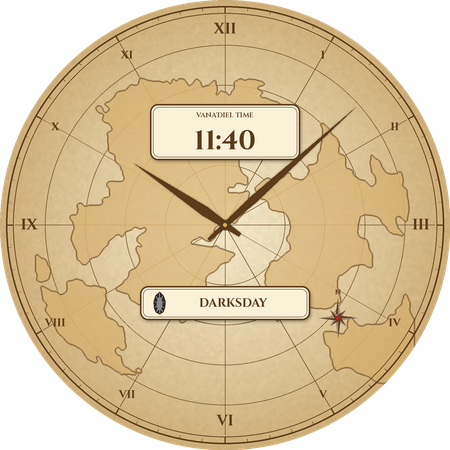
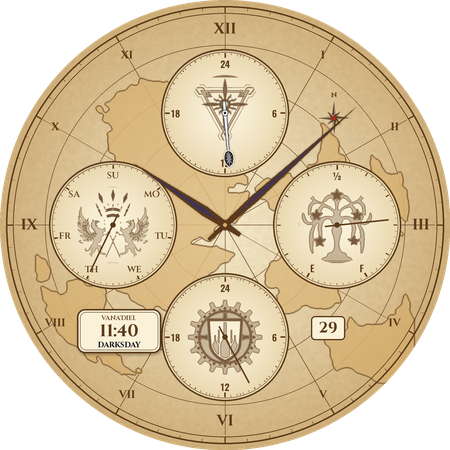
Watch face: four sub-dials on the parchment Vana'diel Time face
The parchment face gets the same four dials as the chronograph styles
in a tan, inked look: cream sub-dials with sepia crests and ink rings
and needles, Jeuno's Vana'diel 24h dial with the crystal-tipped weekday
hand, the Vana'diel time and weekday in a 7:30 cartouche, a 4:30 date,
and ink hands inlaid with the weekday colour. Shared WFF expressions
move to tools/wff_expr.py (with a reference implementation).

Claude-Session: https://claude.ai/code/session_01DhcV9kAg7FMXufVfZQP7Ta

Changed region(s): [[0.0933, 0.0933, 0.9022, 0.9022], [0.7156, 0.1867, 0.7778, 0.3111]]

diff --git a/ffxi-watchface/tools/generate_assets.py b/ffxi-watchface/tools/generate_assets.py
@@ -709,8 +709,7 @@ def colorize(img, tones):
     return Image.fromarray(np.dstack([rgb, a[..., 3]]).astype(np.uint8), 'RGBA')
 
 
-VANA_TIME_BOX = (150, 104, 300, 160)     # cartouche for the Vana'diel time
-VANA_DAY_BOX = (140, 286, 310, 320)      # plaque for the weekday
+VANA_BOX = (77, 309, 161, 353)     # 7:30 cartouche: Vana'diel time and weekday
 
 
 def parchment(size):
@@ -750,6 +749,35 @@ def cartouche(img, box, fill, line):
     d.rounded_rectangle([x0 + s(3), y0 + s(3), x1 - s(3), y1 - s(3)], radius=s(6), outline=line + (255,), width=round(s(0.6)))
 
 
+def parchment_subdial(img, key, centre, scale, ambient=False):
+    """Sub-dial for the parchment face: inked rings, crest in sepia, ink labels."""
+    cx, cy = (s(v) for v in centre)
+    R = s(SUB_R)
+    d = ImageDraw.Draw(img)
+    ink = (130, 118, 96) if ambient else INK
+    if ambient:
+        d.ellipse([cx - R, cy - R, cx + R, cy + R], fill=(0, 0, 0, 255), outline=ink, width=round(s(1.0)))
+        r = s(EMBLEM_R)
+        em = crest_art(key, (2 * r, 2 * r), 0.55)
+        img.paste(em, (int(cx - r), int(cy - r)), circle_mask((2 * r, 2 * r), r, r, r))
+    else:
+        g = radial_gradient((2 * R, 2 * R), (252, 244, 222), (232, 214, 172))
+        img.paste(g, (int(cx - R), int(cy - R)), circle_mask((2 * R, 2 * R), R, R, R))
+        inner_shadow(img, circle_mask(img.size, cx, cy, R), depth=1.4, blur=1.4, alpha=0.3)
+        r = s(EMBLEM_R)
+        v = np.asarray(crest_art(key, (2 * r, 2 * r)).convert('L')).astype(float)
+        em = Image.new('RGBA', (2 * r, 2 * r), INK + (0,))
+        em.putalpha(Image.fromarray(np.minimum(np.clip(v * 0.9, 0, 255), np.asarray(circle_mask(em.size, r, r, r))).astype(np.uint8)))
+        img.alpha_composite(em, (int(cx - r), int(cy - r)))
+        d = ImageDraw.Draw(img)
+        for rr, w in ((R, 1.5), (R - s(3), 0.5)):
+            d.ellipse([cx - rr, cy - rr, cx + rr, cy + rr], outline=INK + (255,), width=round(s(w)))
+    for i in range(60):
+        a = i * 6
+        d.line([polar(R - s(4), a, cx, cy), polar(R - s(5.6), a, cx, cy)], fill=ink + (255,), width=round(s(0.5)))
+    draw_scale(d, scale, cx, cy, R - s(1), ink)
+
+
 def make_vana_dial(ambient=False):
     size = (s(N), s(N))
     if ambient:
@@ -764,7 +792,7 @@ def make_vana_dial(ambient=False):
         for a in range(0, 180, 30):
             d.line([polar(s(210), a), polar(s(210), a + 180)], fill=INK + (28,), width=round(s(0.6)))
         draw_world(img, (214, 172, 104, 150), INK + (210,), width=0.9, diameter=380)
-        compass_rose(img, s(338), s(318), s(20), INK)
+        compass_rose(img, s(334), s(118), s(17), INK)
         ink = INK
     d = ImageDraw.Draw(img)
     # inked chapter ring with Earth hours
@@ -776,11 +804,18 @@ def make_vana_dial(ambient=False):
     numerals = ['XII', 'I', 'II', 'III', 'IV', 'V', 'VI', 'VII', 'VIII', 'IX', 'X', 'XI']
     for h, num in enumerate(numerals):
         text_c(d, polar(s(196), h * 30), num, font(FONT_SERIF, 15 if h % 3 == 0 else 11), ink)
-    if not ambient:
-        cartouche(img, VANA_TIME_BOX, (250, 241, 216), INK)
-        cartouche(img, VANA_DAY_BOX, (250, 241, 216), INK)
+    for pos in POSITIONS:
+        parchment_subdial(img, LAYOUT[pos], POSITIONS[pos], POSITION_SCALE[pos], ambient)
+    parchment_subdial(img, 'jeuno', VANA_POS, '24h', ambient)
+    if not ambient:   # date window and the Vana'diel cartouche (text drawn live)
+        x, y = s(DATE_POS[0]), s(DATE_POS[1])
+        w, h = s(DATE_SIZE[0]), s(DATE_SIZE[1])
         d = ImageDraw.Draw(img)
-        text_c(d, (s(225), s(VANA_TIME_BOX[1] + 11)), "VANA'DIEL TIME", font(FONT_LABEL, 7), INK)
+        d.rounded_rectangle([x - w / 2, y - h / 2, x + w / 2, y + h / 2], radius=s(4), fill=(250, 241, 216, 255),
+                            outline=INK + (255,), width=round(s(1.2)))
+        cartouche(img, VANA_BOX, (250, 241, 216), INK)
+        d = ImageDraw.Draw(img)
+        text_c(d, (s((VANA_BOX[0] + VANA_BOX[2]) / 2), s(VANA_BOX[1] + 9)), "VANA'DIEL", font(FONT_LABEL, 6.5), INK)
     img.putalpha(circle_mask(size, C, C, s(225)))
     return img
 
@@ -806,13 +841,18 @@ def element_crystal(color, h=22):
     return img
 
 
-def ink_hand(tip, tail, w, color=INK, pad=3):
-    """Slim solid ink hand for the parchment face."""
+def ink_hand(tip, tail, w, color=INK, pad=3, inlay=None):
+    """Slim solid ink hand for the parchment face; `inlay` adds a coloured centre stripe."""
     img, px, py = hand_canvas(w, tip, tail, pad)
     half = s(w) / 2
     pts = [(px, py - s(tip)), (px + half, py - s(tip) * 0.22), (px + half * 0.4, py + s(tail)),
            (px - half * 0.4, py + s(tail)), (px - half, py - s(tip) * 0.22)]
-    ImageDraw.Draw(img).polygon(pts, fill=color + (255,))
+    d = ImageDraw.Draw(img)
+    d.polygon(pts, fill=color + (255,))
+    if inlay:
+        lw = half * 0.42
+        d.polygon([(px, py - s(tip) * 0.86), (px + lw, py - s(tip) * 0.24), (px, py - s(tip) * 0.08),
+                   (px - lw, py - s(tip) * 0.24)], fill=inlay + (255,))
     return with_shadow(img, blur=1.0, alpha=0.35)
 
 
@@ -1005,8 +1045,7 @@ HANDS = {
     'hand_sub_blue': (lambda: with_shadow(needle_hand(52, 12, 1.5, 2.6, color=NATION_INK['bastok'] + (255,),
                                                       ring_fill=NATION_INK['bastok'] + (255,)), 0.8, 0.4), 8, 52, 12, 2),
     # Vana'diel Time style: ink hands
-    'hand_hour_vana': (lambda: ink_hand(110, 18, 10), 10, 110, 18, 3),
-    'hand_minute_vana': (lambda: ink_hand(176, 22, 8), 8, 176, 22, 3),
+    'hand_sub_ink': (lambda: needle_hand(52, 12, 1.4, 2.6, color=INK + (255,), ring_fill=INK + (255,)), 8, 52, 12, 2),
 }
 VANA_HAND = (12, 54, 12, 2)   # visual width, tip, tail, pad
 
@@ -1040,6 +1079,8 @@ for _k, (_name, _color) in enumerate(ELEMENTS):
     HANDS[f'hand_hour_light_{_k}'] = _photo('hour', 118, thin=0.48, alpha=0.6, outline=True, edge=_tones[0], glow=_tones[1])
     HANDS[f'hand_minute_light_{_k}'] = _photo('minute', 182, thin=0.5, alpha=0.6, outline=True, edge=_tones[0], glow=_tones[1])
     HANDS[f'hand_hour_dark_{_k}'] = (lambda c=_line: outline_hand(112, 16, 10, color=c), 10, 112, 16, 2)
+    HANDS[f'hand_hour_vana_{_k}'] = (lambda c=_tones[1]: ink_hand(110, 18, 10, inlay=c), 10, 110, 18, 3)
+    HANDS[f'hand_minute_vana_{_k}'] = (lambda c=_tones[1]: ink_hand(176, 22, 8, inlay=c), 8, 176, 22, 3)
     HANDS[f'hand_minute_dark_{_k}'] = (lambda c=_line: outline_hand(180, 20, 8, color=c), 8, 180, 20, 2)
 LIGHT_NEEDLE = {'sandoria': 'hand_sub_red', 'windurst': 'hand_sub_green', 'bastok': 'hand_sub_blue'}
 
@@ -1072,7 +1113,7 @@ def patch_xml(overlays=None):
 
     setattrs(r'<HourHand resource="hand_hour_dark" [^>]*>', 225, 225, 'hand_hour_dark')
     setattrs(r'<MinuteHand resource="hand_minute_dark" [^>]*>', 225, 225, 'hand_minute_dark')
-    for style in ('classic', 'dark', 'light'):
+    for style in ('classic', 'dark', 'light', 'vana'):
         for k in range(8):
             setattrs(rf'<HourHand resource="hand_hour_{style}_{k}" [^>]*>', 225, 225, f'hand_hour_{style}_{k}')
             setattrs(rf'<MinuteHand resource="hand_minute_{style}_{k}" [^>]*>', 225, 225, f'hand_minute_{style}_{k}')
@@ -1085,8 +1126,8 @@ def patch_xml(overlays=None):
     for pos, (cx, cy) in POSITIONS.items():
         setattrs(rf'<PartImage name="sub_{pos}_light" [^>]*>', cx, cy, LIGHT_NEEDLE[LAYOUT[pos]])
     setattrs(r'<PartImage name="vana_hand_\d_\w+" [^>]*>', *VANA_POS, 'hand_vana_0')
-    setattrs(r'<HourHand resource="hand_hour_vana" [^>]*>', 225, 225, 'hand_hour_vana')
-    setattrs(r'<MinuteHand resource="hand_minute_vana" [^>]*>', 225, 225, 'hand_minute_vana')
+    for pos, (cx, cy) in POSITIONS.items():
+        setattrs(rf'<PartImage name="sub_{pos}_vana" [^>]*>', cx, cy, 'hand_sub_ink')
     for name, (_, half) in CAPS.items():
         xml, n = re.subn(rf'(<PartImage name="{name}" )[^>]*>',
                          rf'\g<1>x="{225 - half:g}" y="{225 - half:g}" width="{2 * half:g}" height="{2 * half:g}">', xml)
@@ -1179,19 +1220,20 @@ def vana_now(t):
     return int(v % 86400 // 3600), int(v % 3600 // 60), int(v // 86400) % 8
 
 
-def preview_vana(dial_hi, hands_hi, caps_hi, hh=10, mm=8, utc=1793270400):
+def preview_vana(dial_hi, hands_hi, caps_hi, hh=10, mm=8, dow=5, day=29, batt=78, utc=PREVIEW_UTC):
     img = dial_hi.copy()
     vh, vm, wd = vana_now(utc)
+    angle = {'left': (dow - 1) * 360 / 7, 'right': -150 + batt * 3, 'bottom': (hh + mm / 60) * 15}
+    for pos, (cx, cy) in POSITIONS.items():
+        place(img, hands_hi['hand_sub_ink'], 'hand_sub_ink', cx, cy, angle[pos])
+    place_vana_hand(img, hands_hi, utc)
     d = ImageDraw.Draw(img)
-    x0, y0, x1, y1 = VANA_TIME_BOX
-    text_c(d, (s((x0 + x1) / 2), s(y1 - 19)), f'{vh:02d}:{vm:02d}', font(FONT_SERIF, 27), INK)
-    name, color = ELEMENTS[wd]
-    cr = element_crystal(color)
-    x0, y0, x1, y1 = VANA_DAY_BOX
-    img.alpha_composite(cr, (round(s(x0 + 12)), round(s((y0 + y1) / 2) - cr.height / 2)))
-    text_c(d, (s((x0 + x1) / 2 + 8), s((y0 + y1) / 2)), name.upper(), font(FONT_SERIF, 12), INK)
-    place(img, hands_hi['hand_hour_vana'], 'hand_hour_vana', 225, 225, (hh % 12 + mm / 60) * 30)
-    place(img, hands_hi['hand_minute_vana'], 'hand_minute_vana', 225, 225, mm * 6)
+    text_c(d, (s(DATE_POS[0]), s(DATE_POS[1])), str(day), font(FONT_SERIF, 15), INK)
+    x0, y0, x1, y1 = VANA_BOX
+    text_c(d, (s((x0 + x1) / 2), s(y0 + 22)), f'{vh:02d}:{vm:02d}', font(FONT_SERIF, 17), INK)
+    text_c(d, (s((x0 + x1) / 2), s(y0 + 36)), ELEMENTS[wd][0].upper(), font(FONT_SERIF, 7.5), ELEMENT_TONES[wd][0] if wd != 6 else INK)
+    place(img, hands_hi[f'hand_hour_vana_{wd}'], f'hand_hour_vana_{wd}', 225, 225, (hh % 12 + mm / 60) * 30)
+    place(img, hands_hi[f'hand_minute_vana_{wd}'], f'hand_minute_vana_{wd}', 225, 225, mm * 6)
     cap = caps_hi['cap_vana']
     img.alpha_composite(cap, (round(C - cap.width / 2), round(C - cap.height / 2)))
     return finish(img)

diff --git a/ffxi-watchface/tools/wff_expr.py b/ffxi-watchface/tools/wff_expr.py
@@ -1,0 +1,31 @@
+"""Watch Face Format expressions shared by watchface.xml (XML-escaped, ready to paste).
+
+All times are seconds. UTC_TIMESTAMP may be seconds or milliseconds depending on the
+runtime, so T normalises it. The UTC time of day is rebuilt from the exact local
+[SECONDS_IN_DAY] minus the zone offset (derived from T and rounded to 15 minutes), so
+it stays exact even if large timestamps are evaluated in single precision.
+
+Vana'diel time runs at 25x; one Earth day is exactly 25 Vana'diel days (86400 / 3456),
+so the Vana'diel time of day depends only on the UTC time of day. Vana'diel midnight
+falls at UTC 15:00 + n * 57.6 min (phase 2160 s). The weekday counts Vana'diel days
+since 2002-06-23 15:00 UTC (1024844400), offset 6, mod 8 (Firesday = 0).
+These were checked against the standard Vana'diel clock algorithm over 20,000 random
+times and time zones, in double and single precision.
+"""
+T = "([UTC_TIMESTAMP] &gt; 100000000000 ? [UTC_TIMESTAMP] / 1000 : [UTC_TIMESTAMP])"
+OFF = f"(round(([SECONDS_IN_DAY] - ({T} % 86400)) / 900) * 900)"
+UTC = f"((([SECONDS_IN_DAY] - {OFF}) % 86400 + 86400) % 86400)"   # UTC seconds of day
+V = f"((({UTC} - 2160) % 3456 + 3456) % 3456)"                     # Earth s into the Vana'diel day
+VH = f"floor({V} / 144)"                                           # Vana'diel hour 0-23
+VM = f"floor(({V} % 144) / 2.4)"                                   # Vana'diel minute 0-59
+WD = f"((round((({T} - 1024844400) - {V}) / 3456) + 6) % 8)"       # weekday 0-7, Firesday = 0
+VANA_ANGLE = f"{V} / 9.6"                                          # 24h dial: one turn per Vana'diel day
+JST = f"(({UTC} + 32400) % 86400)"                                 # Japan (UTC+9, no DST)
+JST_H = f"floor({JST} / 3600)"
+JST_M = f"floor(({JST} % 3600) / 60)"
+
+
+def reference(t):
+    """(hour, minute, weekday) by the usual Vana'diel clock algorithm, for a UTC timestamp."""
+    v = (t - 1024844400) * 25 + (898 * 360 + 30) * 86400
+    return int(v % 86400 // 3600), int(v % 3600 // 60), int(v // 86400) % 8
